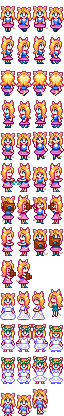
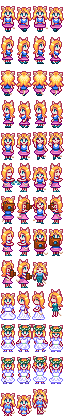
Fixed the flower dance and made a few file names more consistent

Changed region(s): [[0.5, 0.625, 0.75, 0.6875]]

diff --git a/documentation/TODO.md b/documentation/TODO.md
@@ -1,120 +1,16 @@
-Helpful: https://stardewvalleywiki.com/Modding:Migrate_to_Stardew_Valley_1.6#XNB_impact
-
-# Visuals
-* Portraits/Abigail_Beach - New expressions
-* Characters/Abigail_Winter.png - new file
-* Portraits/Abigail_Winter.png - new file
-* Portraits/Albert_Beach - New expressions
-* Portraits/Alex_Beach - New expressions
-* Characters/Alex_Winter.png - new file
-* Portraits/Alex_Winter.png - new file
-* Characters/Assorted_Fishermen.png
-* Characters/Assorted_Fishermen_Winter.png
-* Characters/Caroline_Winter.png - new file
-* Portraits/Caroline_Winter.png - new file
-* Characters/Clint_Winter.png - new file
-* Portraits/Clint_Winter.png - new file
-* LooseSprites/Cursors_1_6_book_shop_man.png
-* LooseSprites/Cursors_1_6_forecast.png
-* LooseSprites/Cursors_1_6_fortune.png
-* LooseSprites/Cursors_1_6_morris_smug.png
-* Portraits/Demetrius - New expression
-* Characters/Demetrius.png - In a hazmat suit. donedonedone just copied the sprite from base game
-* Characters/Demetrius_Winter.png - new file
-* Portraits/Demetrius_Winter.png - new file
-* Portraits/Elliott_Beach - New expressions
-* Characters/Elliott_Winter.png - new file
-* Portraits/Elliott_Winter.png - new file
-* Portraits/Emil_Beach - New expressions
-* Portraits/Emily_Beach - New expressions
-* Characters/Emily_Winter.png - new file
-* Portraits/Emily_Winter.png - new file
-* Characters/Evelyn_Winter.png - new file
-* Portraits/Evelyn_Winter.png - new file
-* Portraits/Fizz.png - New Character
-* Characters/Fizz.png - New character
-* Characters/George_Winter.png - new file
-* Portraits/George_Winter.png - new file
-* Portraits/Gil.png - New expression
-* Characters/Gus_Winter.png - new file
-* Portraits/Gus_Winter.png - new file
-* Portraits/Haley.png - New expressions
-* Portraits/Haley_Beach - New expressions
-* Portraits/Haley_Winter.png - New expressions
-* Characters/Haley_Winter.png - new file
-* Portraits/Haley_Winter.png - new file
-* Portraits/Harvey_Beach - New expressions
-* Characters/Harvey_Winter.png - new file
-* Portraits/Harvey_Winter.png - new file
-* Portraits/Hayden.png - New expressions
-* Characters/Hayden.png - New sprite AND new animation at bottom
-* Characters/Hayden.png - New sprite AND new animation at bottom
-* Portraits/Hayden_Beach - New expressions
-* Portraits/Hayden_Winter.png - New expressions
-* Characters/Haley_Winter.png - New sprite
-* Characters/Haley_Winter.png - New sprite
-* Characters/Jas_Winter.png - new file
-* Portraits/Jas_Winter.png - new file
-* Characters/Jodi.png - Last sprite in the file is supposed to be her crouching, looking at moonlight jellies. donedonedone copied her jumping animation as a placeholder.
-* Portraits/Jodi_Beach - New expression
-* Characters/Jodi_Winter.png - new file
-* Portraits/Jodi_Winter.png - new file
-* Portraits/Kent.png - New expressions
-* Portraits/Kent_Winter.png - New expressions
-* Characters/Kent_Winter.png - new file
-* Portraits/Kent_Winter.png - new file
-* Portraits/Leah_Beach.png - New expression
-* Characters/Leah_Winter.png - new file
-* Portraits/Leah_Winter.png - new file
-* Characters/Lewis_Winter.png - new file
-* Portraits/Lewis_Winter.png - new file
-* Portraits/Liam_Beach.png - New expression
-* Characters/Linus_Winter.png - new file
-* Portraits/Linus_Winter.png - new file
-* Portraits/Marcus_Beach.png - New expressions
-* Portraits/Marnie_Beach.png - New expression
-* Characters/Marnie_Winter.png - new file
-* Portraits/Marnie_Winter.png - new file
-* Portraits/Maru_Beach.png - New expressions
-* Characters/Maru_Winter.png - new file
-* Portraits/Maru_Winter.png - new file
-* Characters/Pam_Winter.png - new file
-* Portraits/Pam_Winter.png - new file
-* Characters/ParrotBoy_Winter.png - new file
-* Portraits/ParrotBoy_Winter.png - new file
-* Portraits/Penny.png - New expression
-* Portraits/Penny_Beach.png - New expressions
-* Portraits/Penny_Winter.png - New Expression
-* Characters/Penny_Winter.png - new file
-* Portraits/Penny_Winter.png - new file
-* Portraits/Perry.png - New expression
-* Portraits/Perry_Beach.png - New expressions
-* Portraits/Perry_Winter.png - New Expression
-* Characters/Pierre_Winter.png - new file
-* Portraits/Pierre_Winter.png - new file
-* Characters/Robin_Winter.png - new file
-* Portraits/Robin_Winter.png - new file
-* Portraits/Sam.png - New expression
-* Portraits/Sam_Beach.png - New expressions
-* Characters/Sam_Winter.png - new file
-* Portraits/Sam_Winter.png - new file
-* Portraits/Sebastian_Beach.png - New expressions
-* Characters/Sebastian_Winter.png - new file
-* Portraits/Sebastian_Winter.png - new file
-* Portaits/Shane_Beach.png - New expressions
-* Characters/Shane_Winter.png - new file
-* Portraits/Shane_Winter.png - new file
-* Characters/Vincent_Winter.png - new file
-* Portraits/Vincent_Winter.png - new file
-* Characters/Willy_Winter.png - new file
-* Portraits/Willy_Winter.png - new file
-
-
+# Double-check all 1.6 character sprites
+- Missing haley sprite (rock rejuvenation) /assets/Characters/Haley.png. ddd fixed it by copying from winter.
+- Shane passed out sprite is missing a tail. assets/LooseSprites/Cursors_prarie_king_and_random_stuff.png
+- One of Albert's flower dance sprites makes him look to the right for a frame. 
 
 # Dialogue
-Things to check (Mark/Delete when complete):
-* Characters/Dialogue
-* Characters/schedules
-* Data
-* Strings
+
+
+# SVE
+Governor
+Marlon
+Morris
+Gunther
+Gil
+Henchman
 
